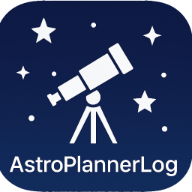
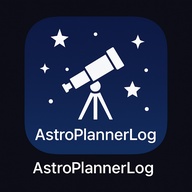
some fix

diff --git a/app.js b/app.js
@@ -92,7 +92,6 @@ function parseAstroPlannerTSV(text) {
 
     const id = getCell(cells, "id");
     const name = getCell(cells, "name");
-    const object = name || id;
     const type = getCell(cells, "type");
     const constellation = getCell(cells, "const");
     const telescope = getCell(cells, "telescope");
@@ -104,12 +103,12 @@ function parseAstroPlannerTSV(text) {
     const opticalAid = getCell(cells, "optical aid");
     const plan = getCell(cells, "plan");
 
-    if (!object && !notes) continue;
+    if (!id && !name && !notes) continue;
 
     logs.push({
       id,
       name,
-      object: object || "Unknown object",
+      objectKey: id || name || "Unknown object",
       type,
       constellation,
       telescope,
@@ -194,7 +193,9 @@ function applyFilters(logs) {
 
     if (state.search) {
       const haystack =
-        (log.object || "") +
+        (log.id || "") +
+        " " +
+        (log.name || "") +
         " " +
         (log.notes || "") +
         " " +
@@ -212,11 +213,12 @@ function applyFilters(logs) {
 
 function render() {
   const filtered = applyFilters(allLogs);
-  const visible = filtered.slice().sort((a, b) => parseDateTime(b.datetime) - parseDateTime(a.datetime));
+  const visible = filtered
+    .slice()
+    .sort((a, b) => parseDateTime(b.datetime) - parseDateTime(a.datetime));
 
-  // stats
   statsLogs.textContent = `Logs: ${visible.length}`;
-  const uniqueObjects = new Set(visible.map((l) => l.object));
+  const uniqueObjects = new Set(visible.map((l) => l.objectKey));
   statsObjects.textContent = `Objects: ${uniqueObjects.size}`;
 
   logsList.innerHTML = "";
@@ -233,11 +235,20 @@ function render() {
 
     const objEl = document.createElement("div");
     objEl.className = "log-object";
-    objEl.textContent = log.object || "Unknown object";
+
+    if (log.id && log.name && log.name !== log.id) {
+      objEl.textContent = `${log.id} (${log.name})`;
+    } else if (log.id) {
+      objEl.textContent = log.id;
+    } else if (log.name) {
+      objEl.textContent = log.name;
+    } else {
+      objEl.textContent = "Unknown object";
+    }
 
     const subEl = document.createElement("div");
     subEl.className = "log-subtitle";
-    subEl.textContent = log.name && log.name !== log.object ? log.name : "";
+    subEl.textContent = "";
 
     main.appendChild(objEl);
     if (subEl.textContent) main.appendChild(subEl);
@@ -330,7 +341,6 @@ function render() {
 
     details.appendChild(detailsInner);
 
-    // expand/collapse
     header.addEventListener("click", () => {
       const expanded = card.classList.toggle("expanded");
       if (expanded) {
@@ -362,7 +372,6 @@ function render() {
   }
 }
 
-// Restore last file from localStorage (for offline reopen)
 document.addEventListener("DOMContentLoaded", () => {
   const lastText = localStorage.getItem("astroplannerlog:lastFileText");
   const lastName = localStorage.getItem("astroplannerlog:lastFileName");
@@ -375,6 +384,9 @@ document.addEventListener("DOMContentLoaded", () => {
     window.addEventListener("load", () => {
       navigator.serviceWorker
         .register("./service-worker.js")
+        .then((registration) => {
+          registration.update();
+        })
         .catch((err) => console.error("SW registration failed", err));
     });
   }

diff --git a/index.html b/index.html
@@ -12,8 +12,7 @@
   <meta name="apple-mobile-web-app-capable" content="yes" />
   <meta name="apple-mobile-web-app-status-bar-style" content="black" />
   <meta name="apple-mobile-web-app-title" content="AstroPlannerLog" />
-  <link rel="apple-touch-icon" sizes="180x180" href="astroplannerlog-180.png" />
-  <link rel="apple-touch-icon" sizes="512x512" href="astroplannerlog-512.png" />
+  <link rel="apple-touch-icon" sizes="180x180" href="apple-touch-icon.png" />
 
   <link rel="stylesheet" href="app.css" />
 </head>
@@ -88,9 +87,7 @@
       <p>
         Tip: add this page to your Home Screen to use it as an offline app at the telescope.
       </p>
-      <p class="app-footer-link">
-        <a href="https://old.r-sky.org" target="_blank" rel="noopener">old.r-sky.org</a>
-      </p>
+      <p class="app-version">AstroPlannerLog v0.3</p>
     </footer>
   </div>
 

diff --git a/service-worker.js b/service-worker.js
@@ -6,7 +6,7 @@ const OFFLINE_URLS = [
   "app.css",
   "app.js",
   "manifest.webmanifest",
-  "astroplannerlog-180.png",
+  "apple-touch-icon.png",
   "astroplannerlog-192.png",
   "astroplannerlog-512.png"
 ];
@@ -15,6 +15,7 @@ self.addEventListener("install", (event) => {
   event.waitUntil(
     caches.open(CACHE_NAME).then((cache) => cache.addAll(OFFLINE_URLS))
   );
+  self.skipWaiting();
 });
 
 self.addEventListener("activate", (event) => {
@@ -29,6 +30,7 @@ self.addEventListener("activate", (event) => {
       )
     )
   );
+  self.clients.claim();
 });
 
 self.addEventListener("fetch", (event) => {

diff --git a/app.css b/app.css
@@ -269,13 +269,9 @@ body {
   text-align: center;
 }
 
-.app-footer-link a {
-  color: #a8b6ff;
-  text-decoration: none;
-}
-
-.app-footer-link a:hover {
-  text-decoration: underline;
+.app-version {
+  margin-top: 4px;
+  opacity: 0.9;
 }
 
 @media (min-width: 768px) {
